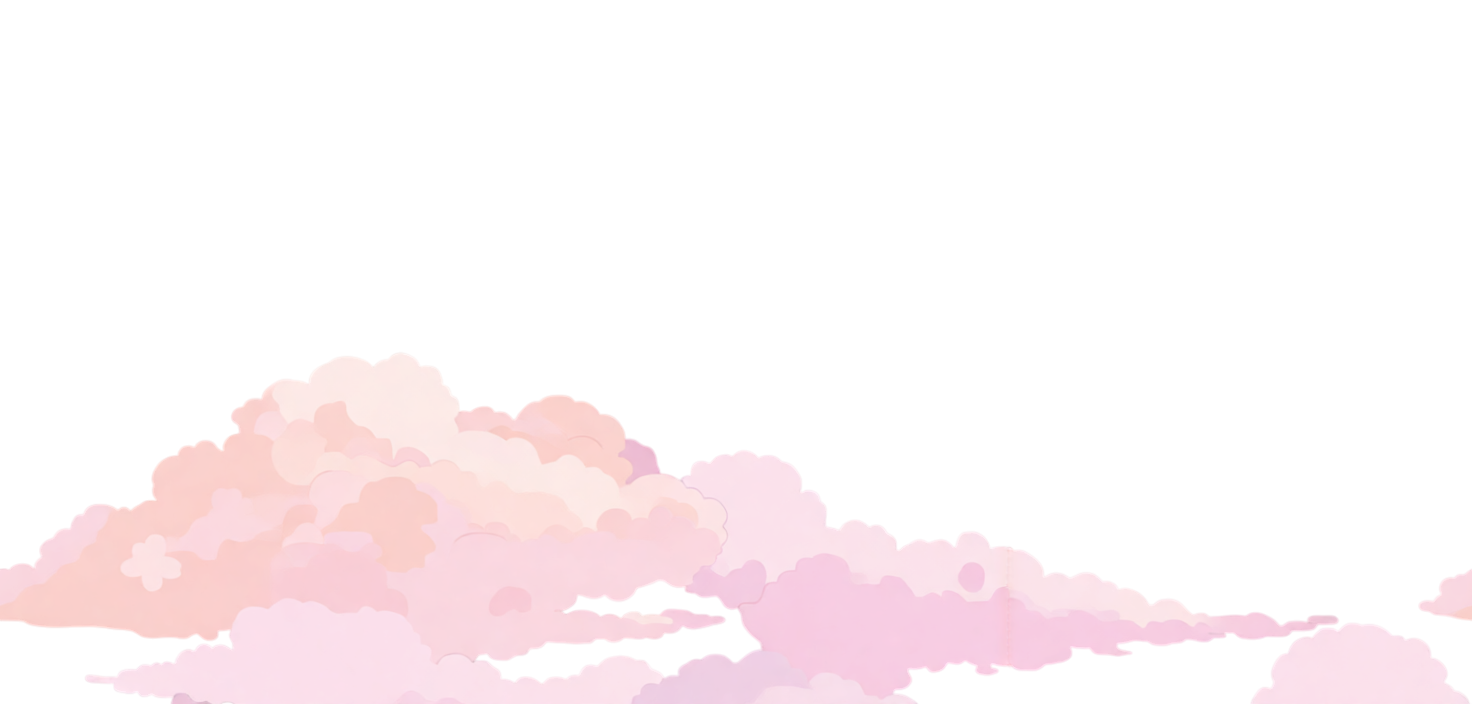
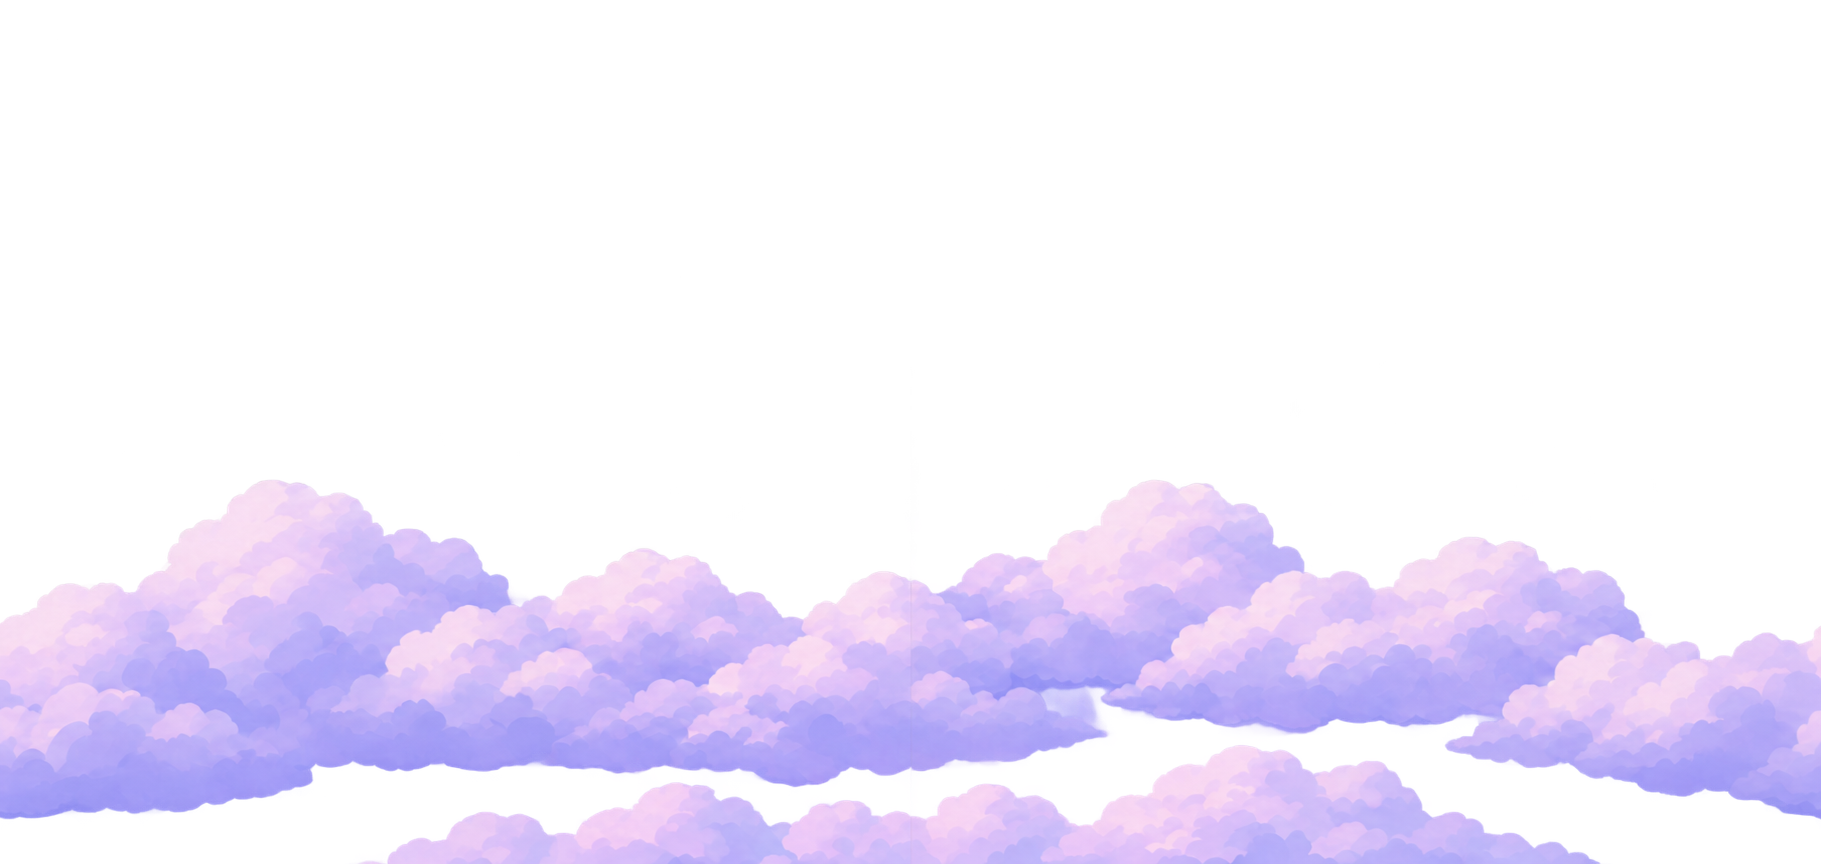
Replace DREAM's background with a mountain and cloud-bank pair
The old DREAM art was a single pastel sky of clouds, rainbows and petals
with nothing to stand on, and the only mode whose backdrop did not read
as a place. Its near layer was softer raw (0.78) than any far layer in
the project, so the pair was listed as a knowing depth inversion. The
new pair is a violet mountain range behind a cloud bank, and it orders
the right way round: near 2.09 / far 1.13 = 1.86, between JUNGLE's 1.45
and OCEAN's 2.64. DREAM leaves $DepthInversionExpected; SKY stays.

Far 0.8 and near 0.5 were picked with -Probe. The far painting is hazy
to begin with (1.80 at the 0.5 floor), and it has to come down that far
for the cloud bank to stand in front; at 1.0 the ridgelines start to
smear.

The near source arrived from background removal with its cloud body at
alpha 253, not 255. Sharpness only counts fully opaque pixels, so it
measured 0 at every sigma. 252-254 were raised to 255 before committing
the source; the soft rim below that is untouched. CLAUDE.md now says to
check a new cut-out's alpha before probing.

Both sources are 1821x864, 2.11:1 against the others' 2.09:1, so a lap
is 1800px instead of 1786. Each layer tiles on its own width, and the
left/right edges differ by 1.4/255 (far) and 3.9/255 (near).

-SelfTest re-derives all eight files at RMSE 0; check_bg_layers passes.
Main.gd's speed-line luma table still measures DREAM on the old, paler
backdrop, so that line may now read stronger than intended.

diff --git a/CLAUDE.md b/CLAUDE.md
@@ -540,12 +540,18 @@ all.
 
 Matching every near/far **ratio** onto one number is what the metric alone
 would do, and it was tried and rejected by looking at a screen. Only
-JUNGLE (1.45) kept it; SKY and DREAM needed more blur than the metric
-allowed and OCEAN much less (2.64). Two pairs — SKY and DREAM — are
-therefore knowingly inverted, with the near layer softer than the far, and
-get their depth from occlusion and the 2.5x speed split instead. They are
-listed in `$DepthInversionExpected` with a reason each; `-SelfTest` prints
-those as notes and still warns for any other mode that inverts.
+JUNGLE (1.45) kept it; SKY needed more blur than the metric allowed and
+OCEAN much less (2.64). SKY is therefore knowingly inverted, with the near
+layer softer than the far, and gets its depth from occlusion and the 2.5x
+speed split instead. It is listed in `$DepthInversionExpected` with its
+reason; `-SelfTest` prints that as a note and still warns for any other mode
+that inverts. DREAM used to be the second one, until its art was replaced
+with a pair that orders properly (1.86).
+
+The metric only counts pixels whose alpha is exactly 255. A cut-out from a
+background-removal tool can arrive with its body at 253, which measures as
+0 at every sigma — DREAM's near layer did. Check the alpha histogram of new
+cut-out art before probing.
 
 Blur strength is **measured, not eyeballed**. `blur_background.ps1
 -Sharpness` reports the mean |Laplacian| over opaque RGB for every committed
